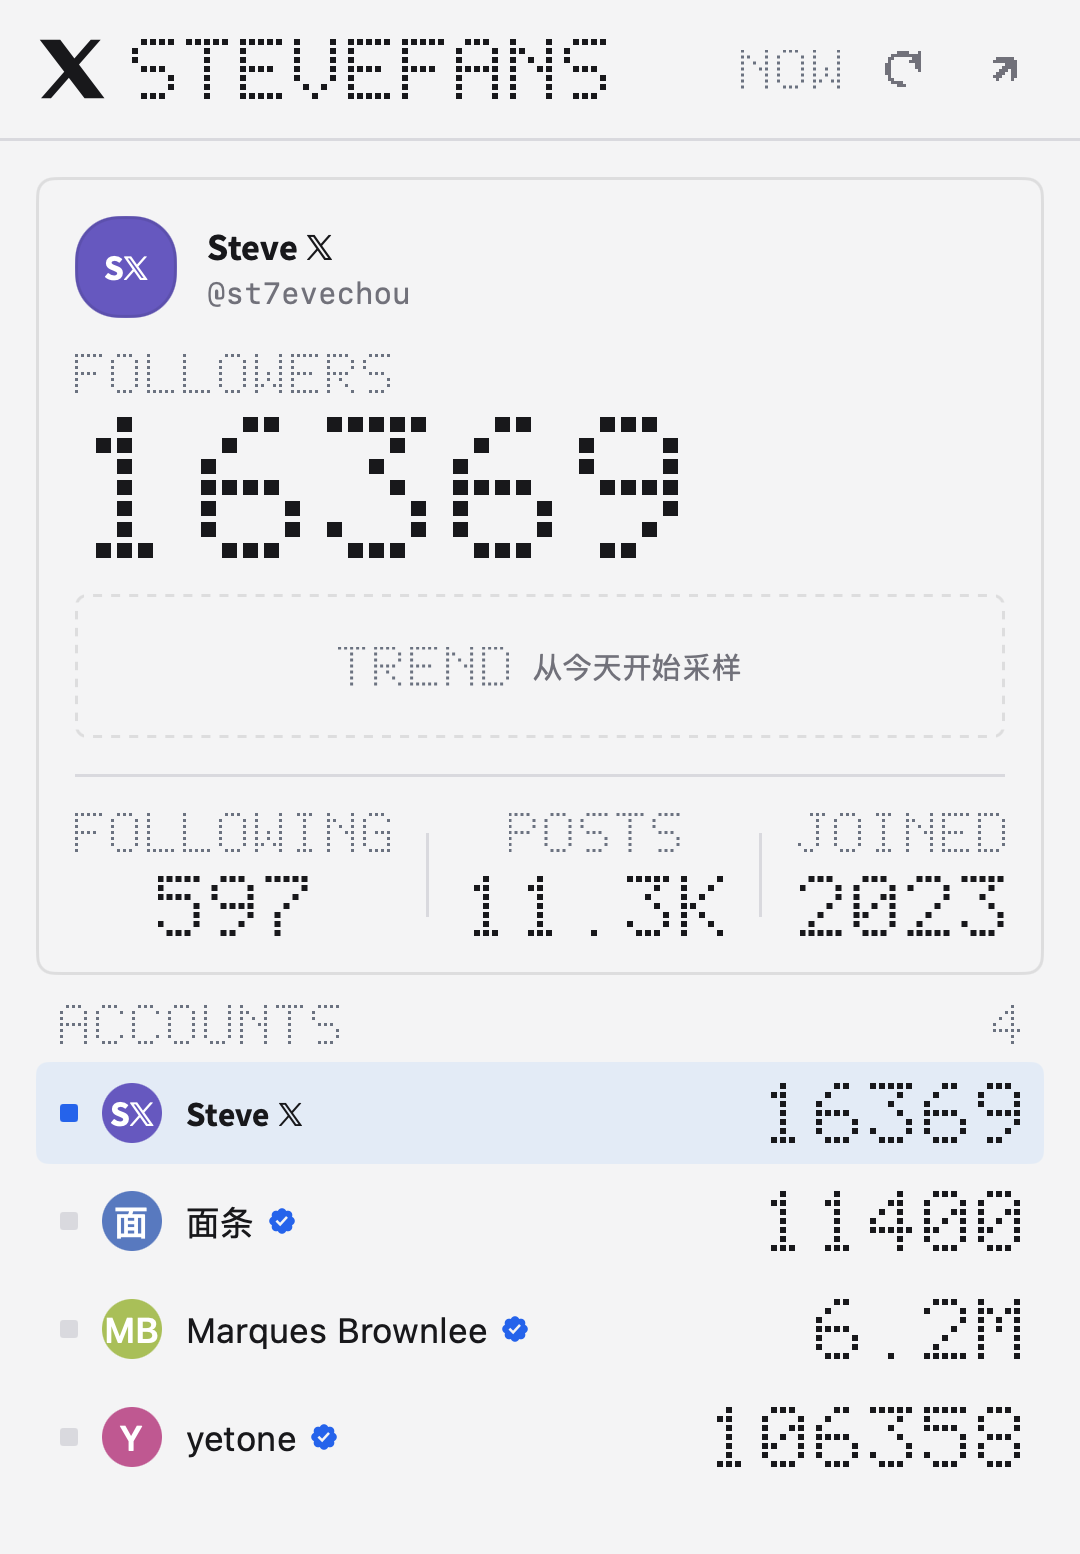
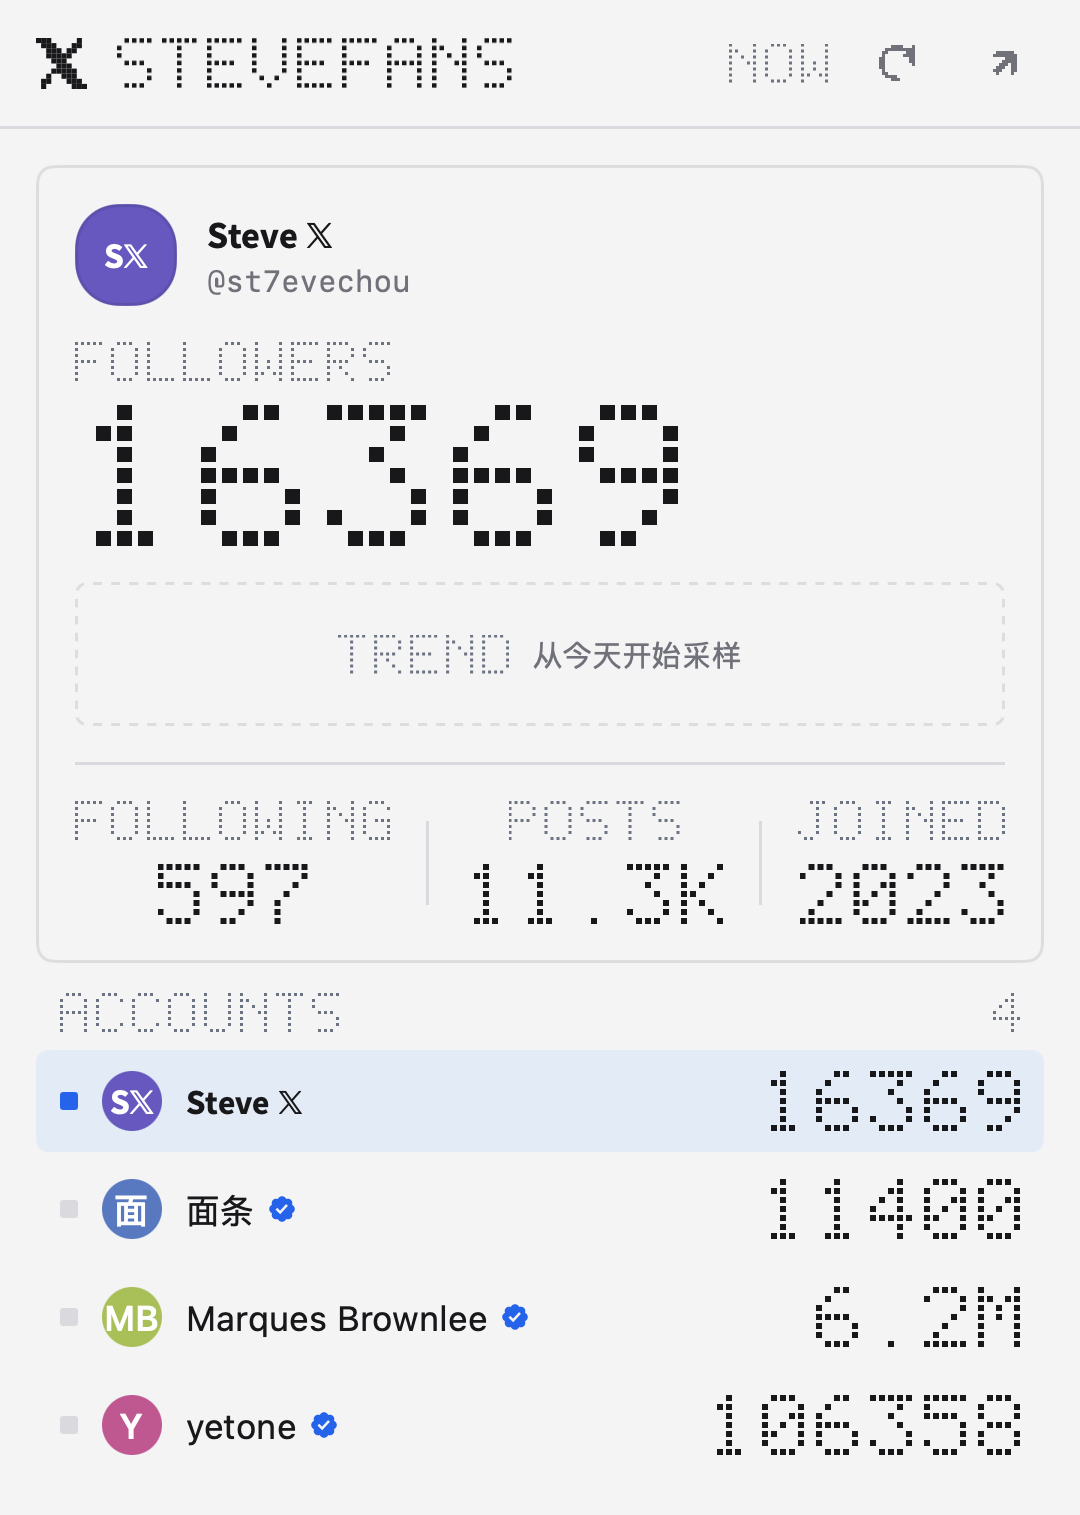
fix(dashboard): 1.12.2 — compact header with a pixel X mark
The dot title drops from 3x to 2.5x and the X brand mark becomes a 10x10
pixel raster at 17 DIP, so the lockup shares one grid; the header row and
the tracked panel height shrink by about 13 DIP.

diff --git a/README.md b/README.md
@@ -24,7 +24,7 @@
 - **主读数 + 账号列表**：面板上方是一张主读数卡，显示当前选中账号的头像、昵称、认证徽章、点阵粉丝数、7 天涨跌、14 天面积图，以及 FOLLOWING / POSTS / JOINED。填写多个账号时，下方按行列出每个账号的粉丝数和涨跌。
 - **切换选中账号**：点一行把该账号换到主读数，双击在 X 打开；选择写入 `localStorage`，下次打开保持不变。菜单栏始终显示第一个账号的粉丝数。
 - **点阵数据层**：标题、粉丝数、FOLLOWERS / FOLLOWING / POSTS / JOINED、涨跌、更新时间和错误标签都用 5×7 点阵绘制；昵称、`@handle` 和中文提示保留原生字体。
-- **点阵图标**：刷新和外链图标由 lucide 轮廓光栅化成 14×14 像素网格，与点阵文字同一套方格；14 DIP 显示时 1 格对应 1 DIP。
+- **点阵图标**：表头的 X 标志按品牌轮廓光栅化成 10×10 像素块（17 DIP），刷新和外链图标由 lucide 轮廓光栅化成 14×14 网格；三枚图标都是纯色方格，和点阵文字同一套画法。
 - **数字滚动动画**：粉丝数首次加载和数值变化时用 650ms 缓出滚动到新值。
 - **趋势图**：14 天原生面积图，可悬停查看每天的数值；横线标出 7 天涨跌的起算点。采样不足两天时显示虚线空态“从今天开始采样”。
 - **X 认证徽章**：认证账号使用官方 X 蓝色认证徽章。
@@ -79,7 +79,7 @@ curl -fsS -X POST "$MB/v0/dashboards" \
 
 - 面板跟随即时系统外观：浅色白底黑字，深色黑底白字。
 - 卡片：surface 底色、6 DIP 圆角、1px alpha 描边，不加阴影；读数之间用 1 DIP Divider 分隔。
-- 点阵比例：标题 3×、主读数 7×（5 DIP 方格 + 2 DIP 缝隙）、标签 2×、统计值 3×、涨跌与 ERROR/RETRY 2.25×。
+- 点阵比例：标题 2.5×、主读数 7×（5 DIP 方格 + 2 DIP 缝隙）、标签 2×、统计值 3×、涨跌与 ERROR/RETRY 2.25×。
 - 主读数在 6 位数字以内保持原尺寸（最宽约 245 DIP，卡片内容区 312 DIP），超过 6 位改用 `M` / `B` 紧凑写法。
 - 账号列表固定 34 DIP 行高，粉丝数 6 位以内显示精确值，更长的显示紧凑写法，保证昵称不被挤没。
 - 趋势图高度 48 DIP，不显示坐标轴和网格，只保留 accent 面积与 1.5 DIP 线，外加一条 7D 起算横线；没有数据时显示同高的虚线框。
